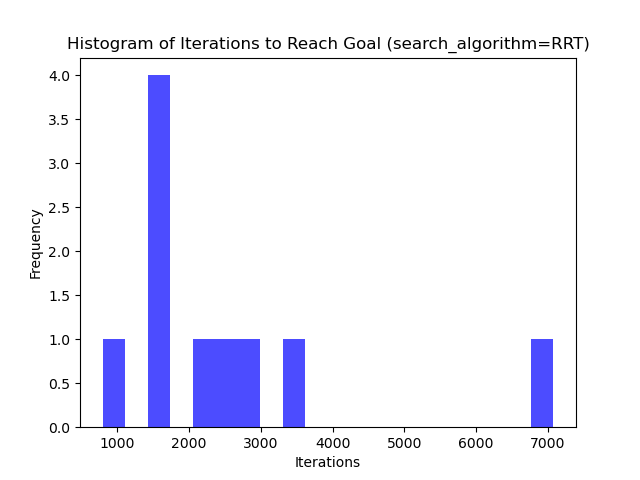
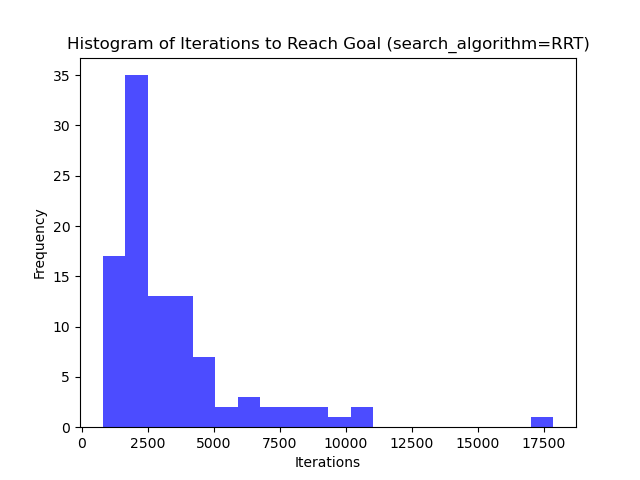
rrt start

diff --git a/codes/RRT_star.py b/codes/RRT_star.py
@@ -1,0 +1,161 @@
+import numpy as np
+import random
+from Maps import Map
+import matplotlib.pyplot as plt
+
+
+class RRT_star:
+    def __init__(self, start, goal, map_type,l=30, epsilon=0.01, step=2.5, goal_tolerance=1.0):
+        self.start = start
+        self.goal = goal
+        self.epsilon = epsilon
+        self.step = step
+        self.goal_tolerance = goal_tolerance
+        self.map_height = 100
+        self.map_width = 100
+        self.near_radius = 10.0
+        self.map = Map(self.map_width, self.map_height,step)
+        if map_type == 1:
+            self.map.obstacles_one(l)
+        elif map_type == 2:
+            self.map.obstacles_two()
+        elif map_type == 3:
+            self.map.obstacles_three()
+        elif map_type == 4:
+            self.map.obstacles_four()
+
+        self.path_length = 0
+        self.V = [self.start]  # List of vertices
+        self.E = {}      # Dictionary of edges
+
+    def sample(self):
+        p = random.random()
+        if p < self.epsilon:
+            return self.goal
+        else:
+            is_free = False
+            while not is_free:
+                x = random.uniform(0, self.map.width)
+                y = random.uniform(0, self.map.height)
+                if self.map.is_free((x, y)):
+                    is_free = True
+                    return (x, y)
+                
+    def nearest(self, q_rand):
+        min_dist = np.inf
+        q_near = None
+        for v in self.V:
+            dist = np.linalg.norm(np.array(q_rand) - np.array(v))
+            if dist < min_dist:
+                min_dist = dist
+                q_near = v
+        return q_near
+    
+    def neighborhood(self, q_new):
+        neighbors = []
+        for v in self.V:
+            dist = np.linalg.norm(np.array(q_new) - np.array(v))
+            if dist <= self.near_radius:
+                neighbors.append(v)
+        return neighbors
+    
+    def best_parent(self, q_new, neighbors):
+        best_cost = np.inf
+        best_parent = None
+        for neighbor in neighbors:
+            cost_q = self.E[neighbor][1] if neighbor in self.E else 0
+            dist = np.linalg.norm(np.array(q_new) - np.array(neighbor))
+            total_cost = cost_q + dist
+            if total_cost < best_cost and self.map.is_valid(neighbor, q_new):
+                best_cost = total_cost
+                best_parent = neighbor
+        return best_parent
+
+    def steer(self, q_near, q_rand):
+        direction = np.array(q_rand) - np.array(q_near)
+        length = np.linalg.norm(direction)
+        if length == 0:
+            return q_near
+        direction = direction / length  # Normalize
+        step_size = min(self.step, length)  # Limit step size to self.step units
+        q_new = np.array(q_near) + step_size * direction
+        return (q_new[0], q_new[1])
+
+    def cost_to_come(self, q):
+        cost = 0
+        current = q
+        while current != self.start:
+            if current in self.E:
+                cost += self.E[current][1]
+                current = self.E[current][0]
+            else:
+                break
+        return cost
+    
+    def rewire(self, q_new, neighbors):
+        cost_new = self.cost_to_come(q_new)
+        for neighbor in neighbors:
+            if neighbor == self.start:
+                continue  # Don't rewire the start node
+            dist_new_neigh = np.linalg.norm(np.array(q_new) - np.array(neighbor))
+            tentative_cost = cost_new + dist_new_neigh
+            current_cost = self.E[neighbor][1] if neighbor in self.E else 0
+            if tentative_cost < current_cost and self.map.is_valid(q_new, neighbor):
+                self.E[neighbor] = [q_new, tentative_cost]
+
+    def search(self, seed=None):
+        if seed is not None:
+            random.seed(seed)
+
+        i = 0
+        while 1:
+            q_rand = self.sample()
+            q_nearest = self.nearest(q_rand)
+            q_new = self.steer(q_nearest, q_rand)
+            if self.map.is_valid(q_nearest, q_new):
+                neighbors = self.neighborhood(q_new)
+                q_best = self.best_parent(q_new, neighbors)
+                self.V.append(q_new)
+                self.E[q_new] = [q_best,self.cost_to_come(q_best) + np.linalg.norm(np.array(q_new) - np.array(q_best))]
+                self.rewire(q_new, neighbors)
+            i += 1
+            if  np.linalg.norm(np.array(q_new) - np.array(self.goal)) <= self.goal_tolerance:
+                print("Goal reached!")
+                return self.reconstruct_path(q_new), i
+            
+        print("Goal not reached within max iterations.")
+        return None, i
+    
+    def reconstruct_path(self, q_new):
+        path = [self.goal]
+        current = q_new
+        self.path_length = np.linalg.norm(np.array(self.goal) - np.array(q_new)) + self.cost_to_come(q_new)
+        while current != self.start:
+            path.append(current)
+            if current in self.E:
+                current = self.E[current][0]  # Move to the parent node
+            else:
+                break
+        path.append(self.start)
+        path.reverse()
+        return path
+    
+    def plot_path(self, path, fig_name="rrt_path.png"):
+        fig, ax = plt.subplots()
+        ax = self.map.display(ax)
+        xs, ys = zip(*self.V)
+        ax.scatter(xs, ys, c='blue', s=5)
+        if path:
+            path_xs, path_ys = zip(*path)
+            ax.plot(path_xs, path_ys, c='red', linewidth=2)
+        plt.scatter([self.start[0]], [self.start[1]], c='green', s=50, label='Start')
+        plt.scatter([self.goal[0]], [self.goal[1]], c='orange', s=50, label='Goal')
+        plt.legend()
+        plt.savefig(fig_name)
+        plt.show()
+
+if __name__ == "__main__":
+    rrt = RRT_star(start=(25, 50), goal=(75, 50), map_type=1)
+    path, iterations = rrt.search()
+    rrt.plot_path(path)
+

diff --git a/codes/number_2.py b/codes/number_2.py
@@ -61,7 +61,7 @@ if __name__ == "__main__":
 
     #l =  25
    
-    n_trials = 10
+    n_trials = 100
     run_rrt_experiments(l=25, n_trials=n_trials, result_folder="results_number_2", picture_folder="pictures_number_2", search_algorithm='RRT', map_type=2)
     run_rrt_experiments(l=25, n_trials=n_trials, result_folder="results_number_2", picture_folder="pictures_number_2", search_algorithm='RRT_connect', map_type=2)
     run_rrt_experiments(l=25, n_trials=n_trials, result_folder="results_number_2", picture_folder="pictures_number_2", search_algorithm='RRT', map_type=3)
